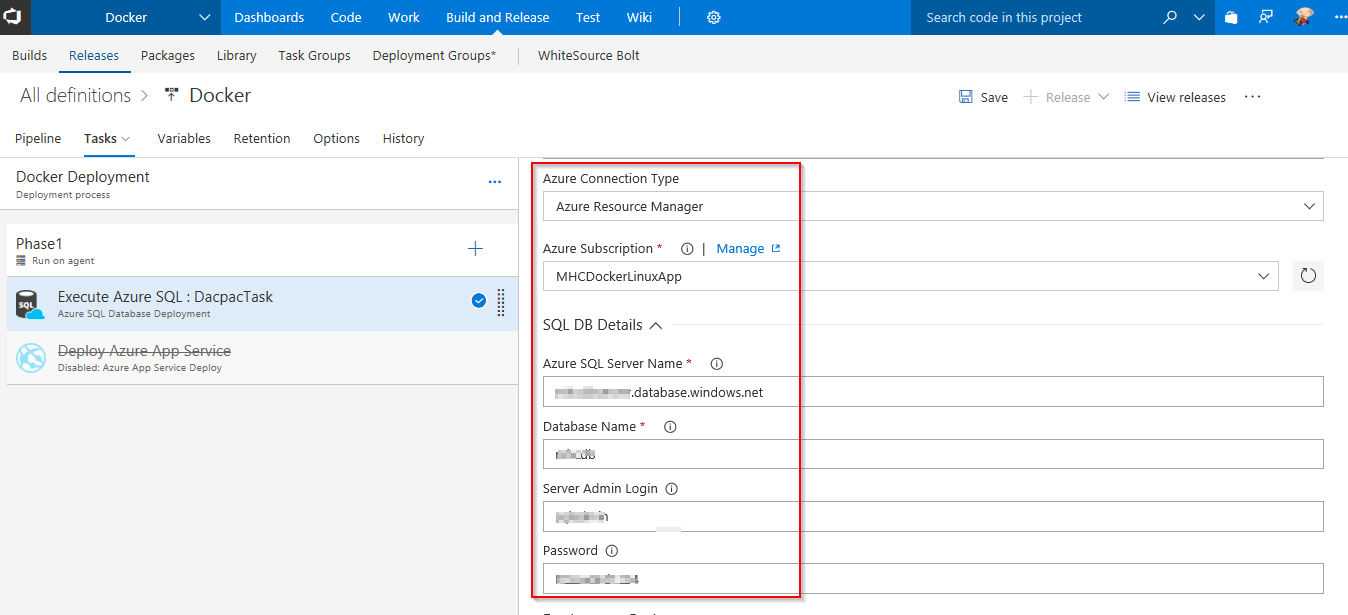
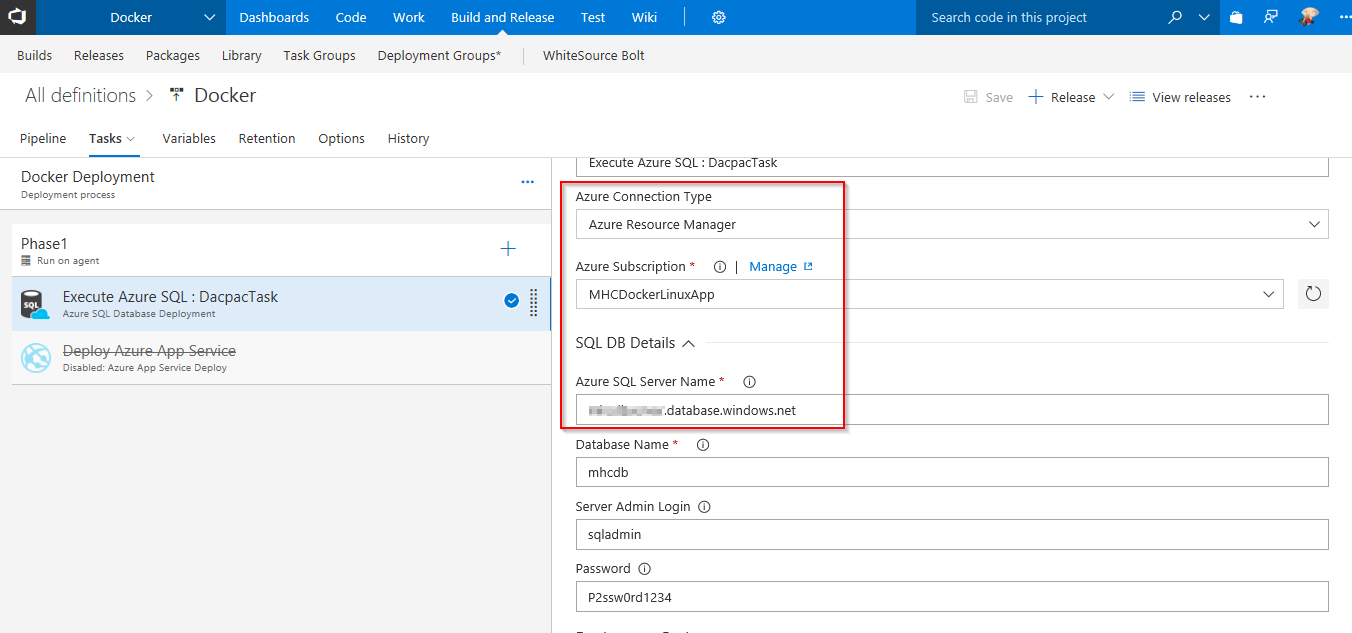
Updated content

diff --git a/docker/readme.md b/docker/readme.md
@@ -21,8 +21,6 @@ Below screenshot helps you understand the VSTS DevOps workflow with Docker:
 
 2. You need a **Visual Studio Team Services Account** and <a href="https://docs.microsoft.com/en-us/vsts/accounts/use-personal-access-tokens-to-authenticate">Personal Access Token</a>.
 
-    <img src="images/vstsdemogen.png">
-
 3. You need to install **Docker Integration** extension from <a href="https://marketplace.visualstudio.com/items?itemName=ms-vscs-rm.docker">Visual Studio Marketplace</a>.
 
 ## Setting up the Environment
@@ -93,12 +91,14 @@ We will create an **Azure Container Registry** to store the images generated dur
 
 1. Use <a href="https://vstsdemogenerator.azurewebsites.net/?name=Docker&templateid=77364" target="_blank">VSTS Demo Data Generator</a> to provision a project on your VSTS account 
 
+    <img src="images/vstsdemogen.png"> 
+
 2. Select **Docker** for the template. Provide a Project Name, and click on Create Project. Once the project is provisioned, click the URL to navigate.
-   <img src="">
+   <img src="images/vstsdemogen2.png">
 
 3. Once the project is provisioned, select the URL to navigate to the project that you provisioned.
 
-   <img src="">
+   <img src="images/vstsdemogen3.png">
 
 
 ## Exercise 1: Endpoint Creation
@@ -175,7 +175,7 @@ Since the connections are not established during project provisioning, we will m
 
    <img src="images/release_tasks.png">
 
-5. Update the **Azure Connection Type**, **Azure Subscription**, and SQL DB Details such as **Azure SQL Server Name**, **Database Name**, **Server Admin Login** and **Password**. Click **Save**.
+5. Update the **Azure Connection Type**, **Azure Subscription** and SQL DB Details such as **Azure SQL Server Name**. Click **Save**. Note: **Database Name** is set to **mhcdb**. **Server Admin Login** is **sqladmin** and **Password** is **P2ssw0rd1234**.
 
     <img src="images/update_dbtask.png">
 
@@ -187,9 +187,16 @@ Since the connections are not established during project provisioning, we will m
 
     <img src="images/queuebuild.png">
 
-    After this step is complete, the database schema will be deployed to SQL Database.
+    The build will copy over the dacpac to artifacts folder, which will be used in release for deploying this dacpac to database you created earlier. After this step is complete, the database schema will be deployed to SQL Database **mhcdb**.
 
-8. Navigate to release definition **Docker** under **Releases** tab, and click on **Edit**. Right click on task **Execute Azure SQL : DacpacTask**, and select **Disable Selected Task(s)**. After this, right click on **Deploy Azure App Service** task, and select **Enable Selected Task(s)**.
+    <img src="images/dacpac_deployment.png">
+
+8. Navigate to release definition **Docker** under **Releases** tab, and click on **Edit**. Click on **Phase1** and select **Hosted Linux Preview** under **Agent queue**
+
+<img src="images/selectagent1.png">
+
+
+9. Right click on task **Execute Azure SQL : DacpacTask**, and select **Disable Selected Task(s)**. After this, right click on **Deploy Azure App Service** task, and select **Enable Selected Task(s)**.
 
 <img src="images/disabletasks_rd.png">
 
@@ -197,7 +204,7 @@ Since the connections are not established during project provisioning, we will m
 
 <img src="images/enabletasks_rd.png">
 
-9. Under **Deploy Azure App Service** task, update **Azure subscription** and **Azure Service name** with the endpoint components from the dropdown. In the **Registry or Namespace** field, enter **Azure Container Registry Login Server** from Azure portal. Let the image name be **myhealth.web**. Click **Save**.
+10. Under **Deploy Azure App Service** task, update **Azure subscription** and **Azure Service name** with the endpoint components from the dropdown. In the **Registry or Namespace** field, enter **Azure Container Registry Login Server** from Azure portal. Let the image name be **myhealth.web**. Click **Save**.
 
    <img src="images/updatedrd.png">
 
@@ -209,11 +216,11 @@ Since the connections are not established during project provisioning, we will m
 
     <img src="images/copysql.png">   
 
-2. Switch to **Azure Portal**, and navigate to the **SQL Database** which you created at the beginning of this lab.Click on **Data Explorer**, and provide database **Password** to login. 
+2. Switch to **Azure Portal**, and navigate to the **SQL Database** which you created at the beginning of this lab.Click on **Data Explorer**, and provide database **Password:** **P2ssw0rd1234** to login. 
 
     <img src="images/dblogin.png">   
 
-3. Under **Query** section, paste the content copied from **healthclinic.sql** file as shown, and click on **Run**. This will now push required data into the database, so that our sample application MyHealthClinic could interact with it.
+3. Under **Query** section, paste the content copied from **healthclinic.sql** file as shown, and click on **Run**. This will now push required data into the database, so that our sample application MyHealthClinic could interact with it. Verify that message **Query succeeded** is displayed at the bottom.
 
     <img src="images/pastesql.png"> 
 
@@ -225,7 +232,7 @@ Since the connections are not established during project provisioning, we will m
 
     >Docker/src/MyHealth.Web/appsettings.json
 
-    Go to line number **9**. Paste the connection string as shown and manually update the **User ID** and **Password**. Click on **Commit**.
+    Go to line number **9**. Paste the connection string as shown and manually update the **User ID** to **sqladmin** and **Password** to **P2ssw0rd1234**. Click on **Commit**.
 
    <img src="images/paste_connectionstring.png">
 
@@ -238,7 +245,7 @@ In this excercise, we will enable the continuous integration trigger to create a
 
    <img src="images/build.png">
 
-2. Right click on each task **Run Services**, **Build Services**, **Push Services** and **Lock Services** one by one. Click on **Enable Selected Task(s)** to enable all of these tasks.
+2. Right click on each task **Run Services**, **Build Services**, **Push Services** and **Lock Services** one by one. Click on **Enable Selected Task(s)** to enable all of these tasks. Disable **Copy Files** and **Publish Artifact** tasks by selecting **Disable Selected Task(s)** after right clicking on each of them.
 
     <img src="images/enabletasks_bd.png">
 
